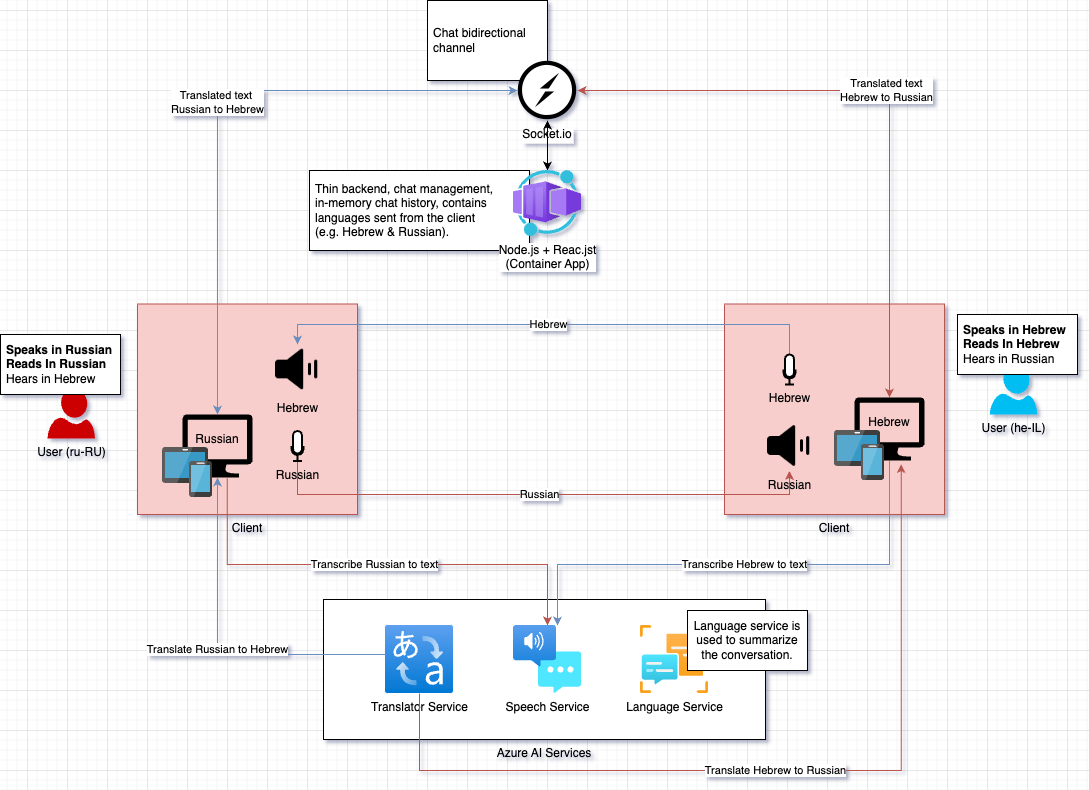
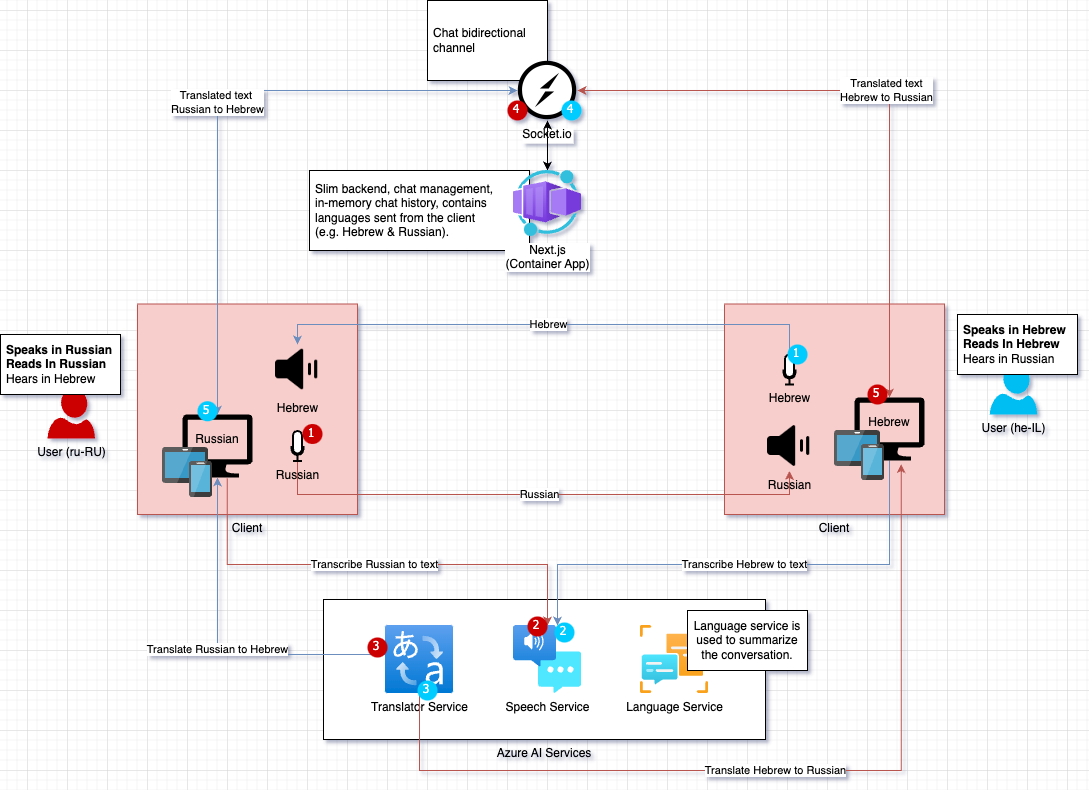
readme

diff --git a/README.md b/README.md
@@ -1,10 +1,19 @@
-![Azure AI Services](/assets/Translator.png)
+![Azure AI Services](/assets/services.png   )
+
 # The Client-Side of Azure AI Services
 
-
-
-
 ## Introduction
+
+This is the client-side of the Azure AI Services solution. It is a Next.js application that utilizes Azure AI services to provide real-time translation and summarization capabilities. The app leverages Azure Speech, Translator, and Language services to deliver the required features. 
+
+The app's backend is a slim Next.js Node.js server that uses Azure Web PubSub for Socket.IO to provide real-time, duplex communication between the client and the server. Additionally, the Next.js slim backend is hosted using Azure Container Apps.
+
+## Scenario explaned
+
+![Diagram](/assets/Translator.png)
+
+![Steps](/assets/steps.png)
+
 
 ## Prerequisites
 
@@ -17,32 +26,53 @@
 
 ## Prepare the environment
 
-#### Set environment variables
+#### Next.js environment variables (.env)
 
 ```
-    WEBSITE_HOSTNAME=http://localhost:3001
-    NODE_ENV='development'
-    PORT=3000
-    SOCKET_PORT=29011
-    SOCKET_ENDPOINT=https://<SOCKET_IO_SERVICE>.webpubsub.azure.com
-    SOCKET_CONNECTION_STRING=<SOCKET_IO_CONNECTION_STRING>
-    SPEECH_KEY=<SPEECH_KEY>
-    SPEECH_REGION=westeurope
-    LANGUAGE_KEY=<LANGUAGE_KEY>
-    LANGUAGE_REGION=westeurope
-    LANGUAGE_ENDPOINT=https://<LANGUAGE_SERVICE>.cognitiveservices.azure.com/
-    TRANSLATE_KEY=<TRANSLATE_KEY>
-    TRANSLATE_ENDPOINT=https://api.cognitive.microsofttranslator.com/
-    TRANSLATE_REGION=westeurope
+WEBSITE_HOSTNAME=http://localhost:3001
+NODE_ENV='development'
+PORT=3000
+SOCKET_PORT=29011
+SOCKET_ENDPOINT=https://<SOCKET_IO_SERVICE>.webpubsub.azure.com
+SOCKET_CONNECTION_STRING=<SOCKET_IO_CONNECTION_STRING>
+SPEECH_KEY=<SPEECH_KEY>
+SPEECH_REGION=westeurope
+LANGUAGE_KEY=<LANGUAGE_KEY>
+LANGUAGE_REGION=westeurope
+LANGUAGE_ENDPOINT=https://<LANGUAGE_SERVICE>.cognitiveservices.azure.com/
+TRANSLATE_KEY=<TRANSLATE_KEY>
+TRANSLATE_ENDPOINT=https://api.cognitive.microsofttranslator.com/
+TRANSLATE_REGION=westeurope
 ```
 
+### setup.sh script environment variables (.env.sh) 
 
+```
+RESOURCE_GROUP=<RESOURCE_GROUP>
+LOCATION=westeurope
+CONTAINER_APP_NAME=aiservices
+CONTAINER_APP_IMAGE=<CONTAINER_REGISTRY>.azurecr.io/aiservices:latest
+CONTAINER_APP_PORT=80
+CONTAINER_REGISTRY_SERVER=<CONTAINER_REGISTRY>.azurecr.io
+CONTAINER_REGISTRY_IDENTITY=system
+CONTAINER_ENVIRONMENT_NAME=env-ai-services
+LOGS_WORKSPACE_ID=<LOGS_WORKSPACE_ID>
+LOGS_WORKSPACE_KEY=<LOGS_WORKSPACE_KEY>
+SUBSCRIPTION_ID=<SUBSCRIPTION_ID>
+```
 
-## Resources
+## Resources Deployed in this solution (Azure)
 
 ![Azure AI Services](/assets/azure-resources.png)
 
-
+* Container Registry: for the next.js app container image.
+* Container App (& Container App Environment)  : for the next.js app.
+* Language Service: for the conversation summarization.
+* Log Analytics Workspace: for the logs of the container app.
+* Web PubSub for Socket.IO: for the real-time, duplex communication between the client and the server.
+* Speech service: for the speech-to-text transcription capbilites.
+* Translator service: for the translation capabilities.
+* Container registry webhook: for the GitHub CD pipeline.
 
 
 ## Links
